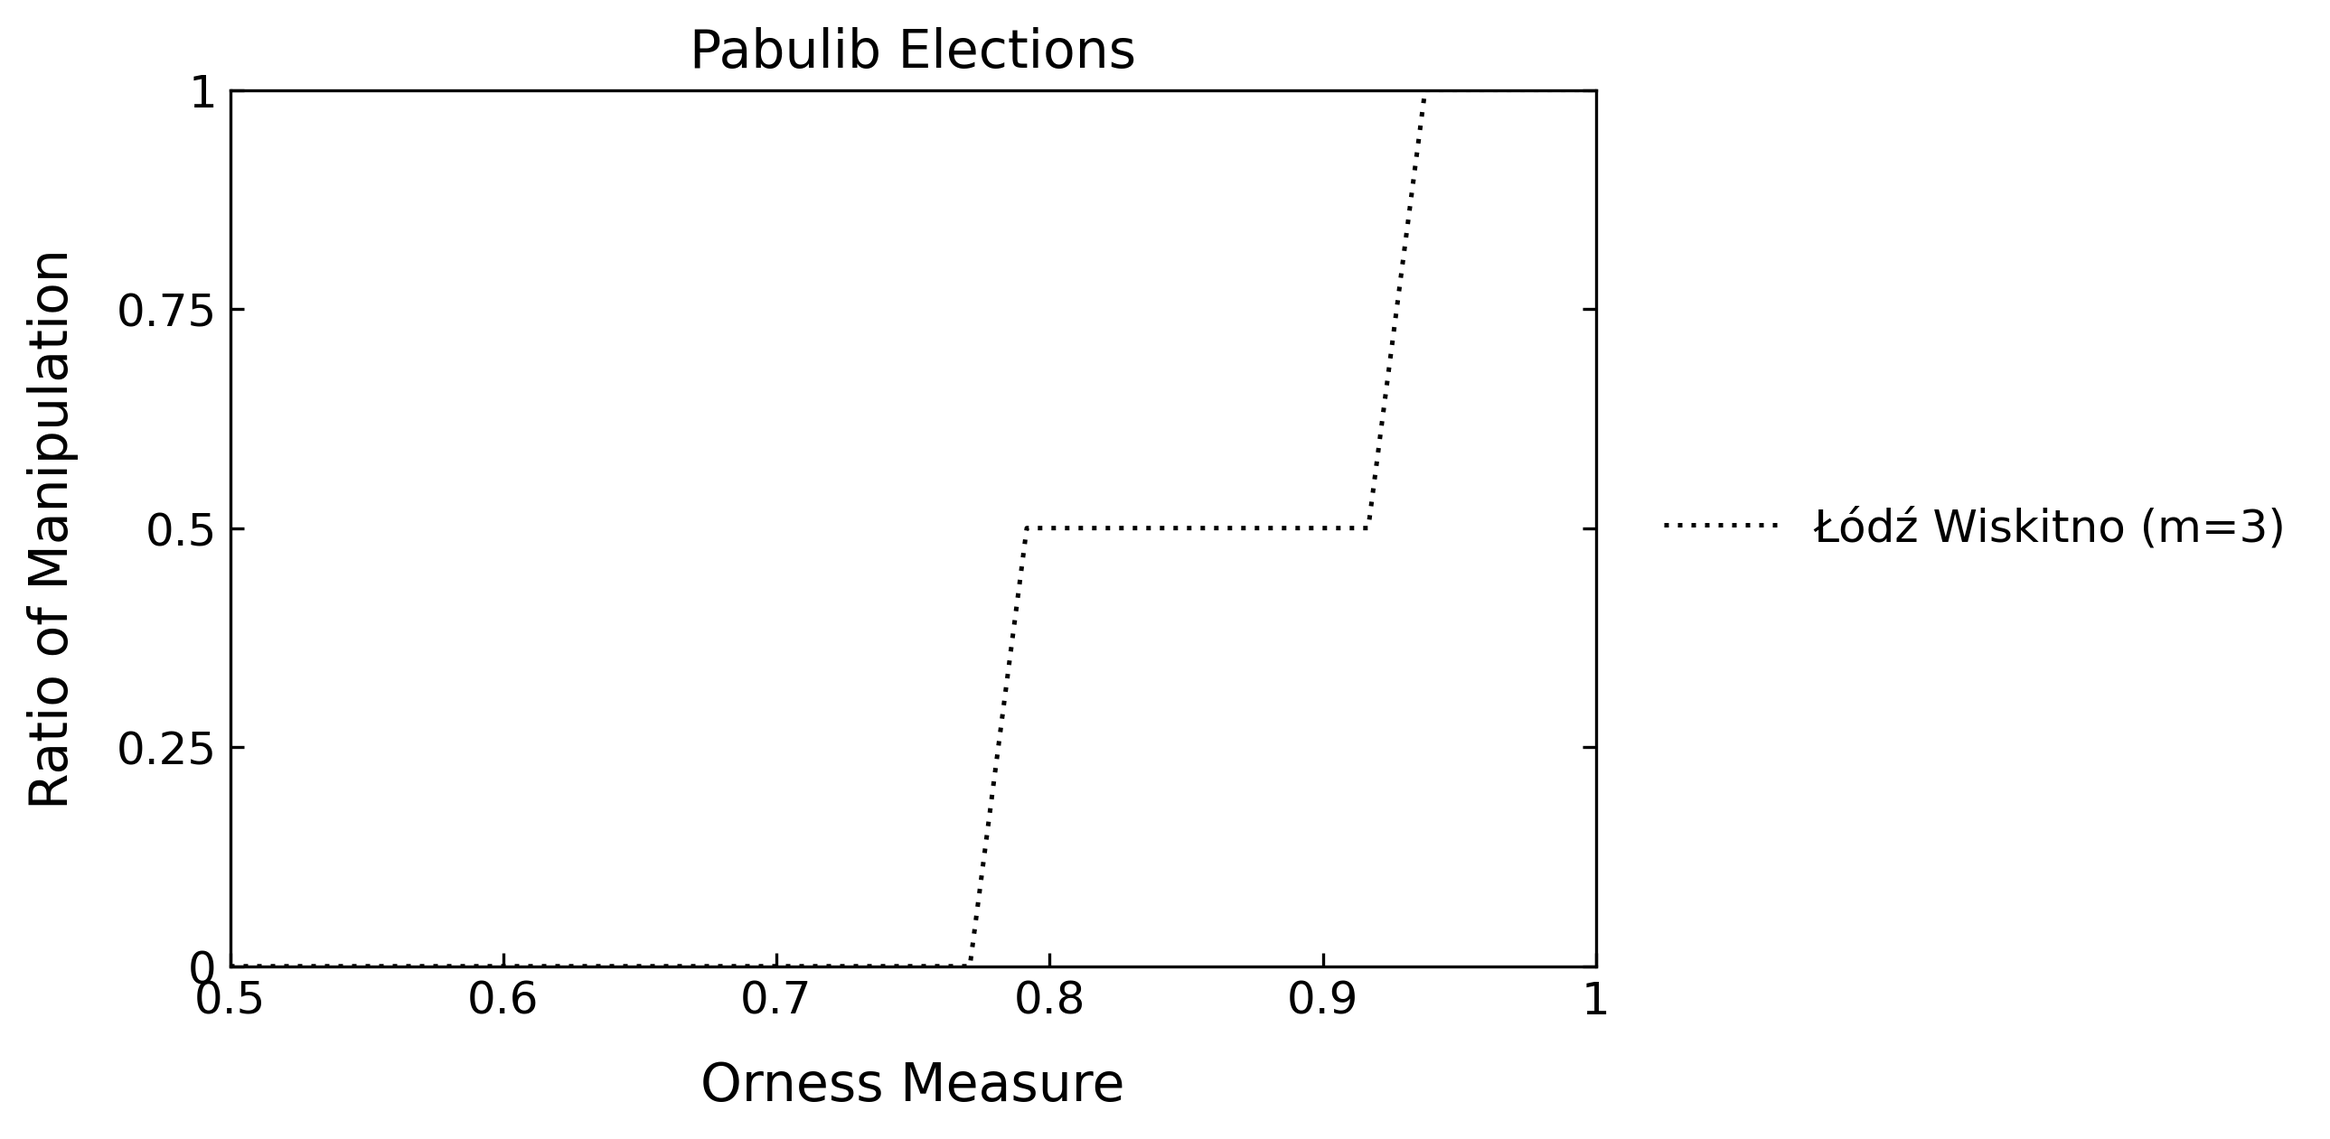
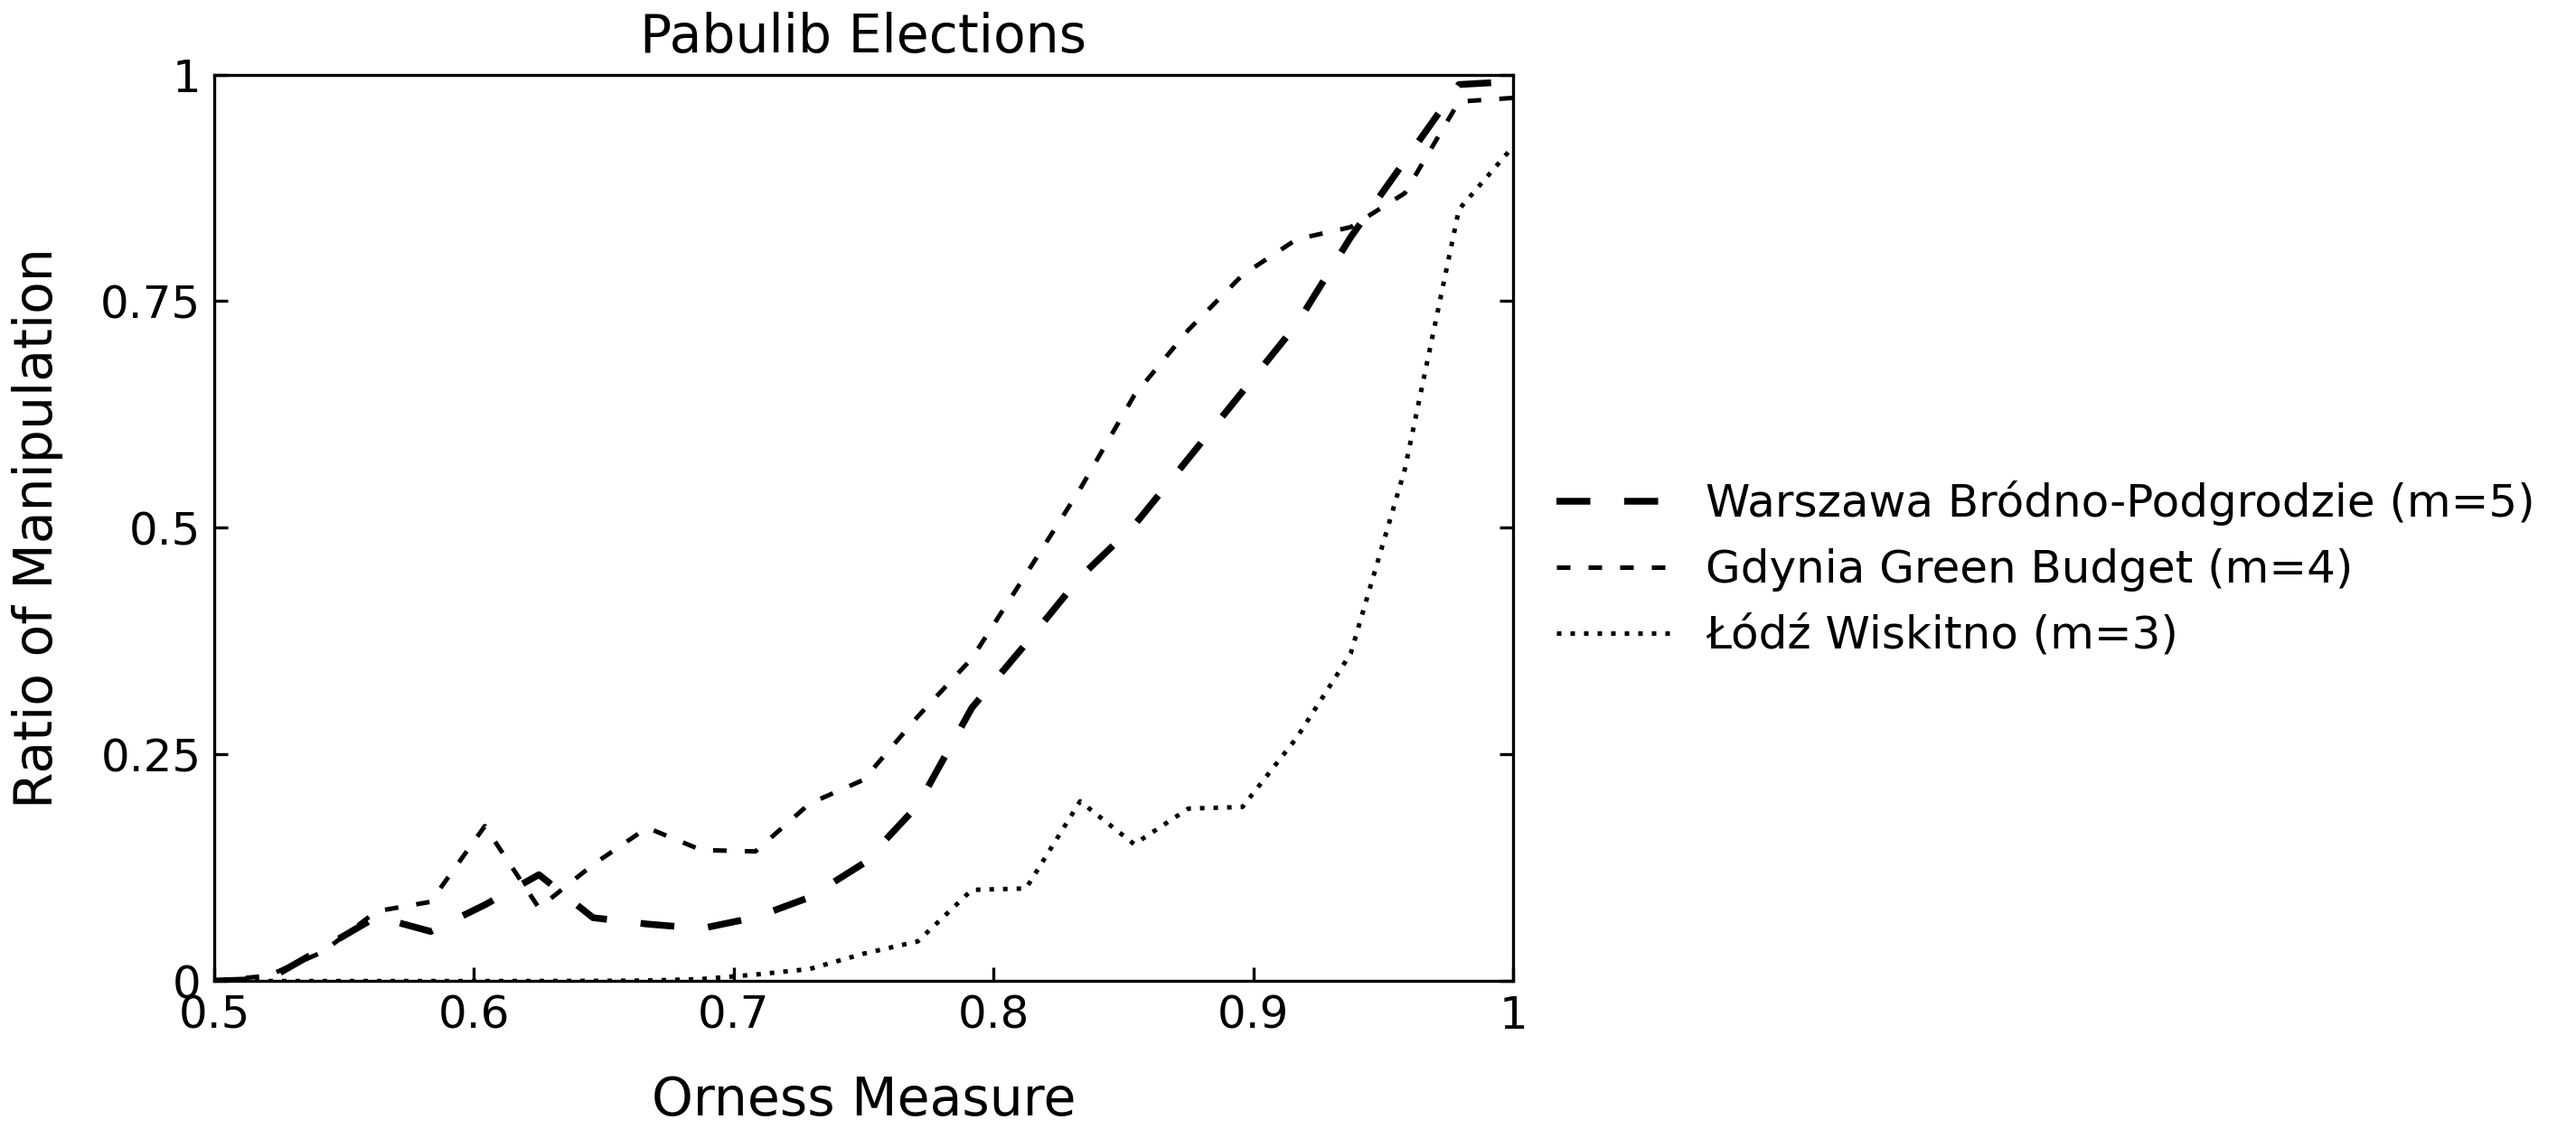
hamming experiments

diff --git a/papers/manipulation_of_hamming/experiments_enhanced/plot_experiment_pabulib.py b/papers/manipulation_of_hamming/experiments_enhanced/plot_experiment_pabulib.py
@@ -15,7 +15,7 @@ def plot_experiment_pabulib(path=None, save=None, show=True, title="Pabulib Elec
 
   df = pd.read_csv(path)
 
-  fig, ax = plt.subplots(figsize=(6.5, 4.2))
+  fig, ax = plt.subplots(figsize=(9.5, 4.2), layout="constrained")
 
   # Define line styles and widths for different 'm' values to match the black-and-white print style
   line_styles = {
@@ -75,18 +75,17 @@ def plot_experiment_pabulib(path=None, save=None, show=True, title="Pabulib Elec
 
   # Place legend outside the axes on the right
   handles, labels = ax.get_legend_handles_labels()
-  ax.legend(
+  fig.legend(
       handles,
       labels,
-      loc="center left",
-      bbox_to_anchor=(1.02, 0.5),
+      loc="outside right center",
       frameon=False,
       fontsize=12,
       handlelength=2.5,
   )
 
   out = save or PLOTS_DIRECTORY_PATH / "plot_experiment_pabulib.png"
-  plt.savefig(out, dpi=300, bbox_inches="tight")
+  fig.savefig(out, dpi=300)
   print(f"Plot saved as '{out}'")
   if show:
     plt.show()

diff --git a/papers/manipulation_of_hamming/experiments_enhanced/experiment_pabulib_100.py b/papers/manipulation_of_hamming/experiments_enhanced/experiment_pabulib_100.py
@@ -1,0 +1,25 @@
+from . import RESULTS_DIRECTORY_PATH
+from .experiment_pabulib import N_JOBS, SEED, run_experiment_pabulib
+
+N_VOTERS = 100
+N_ITERATIONS = 2000
+
+
+def run_experiment_pabulib_100(
+  path=None, n_voters=N_VOTERS, n_iterations=N_ITERATIONS, seed=SEED, n_jobs=N_JOBS, verbose=True
+):
+  """Same as experiment_pabulib, but each profile is 100 voters sampled uniformly
+  (without replacement) from the full pabulib election."""
+  path = path or RESULTS_DIRECTORY_PATH / "experiment_pabulib_100"
+  return run_experiment_pabulib(
+    path=path,
+    n_voters=n_voters,
+    n_iterations=n_iterations,
+    seed=seed,
+    n_jobs=n_jobs,
+    verbose=verbose,
+  )
+
+
+if __name__ == "__main__":
+  run_experiment_pabulib_100()

diff --git a/papers/manipulation_of_hamming/experiments_enhanced/plot_experiment_pabulib_100.py b/papers/manipulation_of_hamming/experiments_enhanced/plot_experiment_pabulib_100.py
@@ -1,0 +1,15 @@
+from . import PLOTS_DIRECTORY_PATH, RESULTS_DIRECTORY_PATH
+from .plot_experiment_pabulib import plot_experiment_pabulib
+
+
+def plot_experiment_pabulib_100(path=None, save=None, show=True, title="Pabulib Elections (100 voters)"):
+  return plot_experiment_pabulib(
+    path=path or RESULTS_DIRECTORY_PATH / "experiment_pabulib_100.csv",
+    save=save or PLOTS_DIRECTORY_PATH / "plot_experiment_pabulib_100.png",
+    show=show,
+    title=title,
+  )
+
+
+if __name__ == "__main__":
+  plot_experiment_pabulib_100()

diff --git a/papers/manipulation_of_hamming/manipulation_of_hamming.py b/papers/manipulation_of_hamming/manipulation_of_hamming.py
@@ -16,7 +16,7 @@ def orness(n, fi):
 
 
 def get_elected_committee(profile, weights_type="minisum"):
-    election = OrderedWeightedHamming(profile=profile, weights=weights_type)
+    election = OrderedWeightedHamming(profile=profile, hamming_weights=weights_type)
     elected_tuple = election.get_elected()
     if not elected_tuple:
         return np.array([0 for c in profile.candidates])
